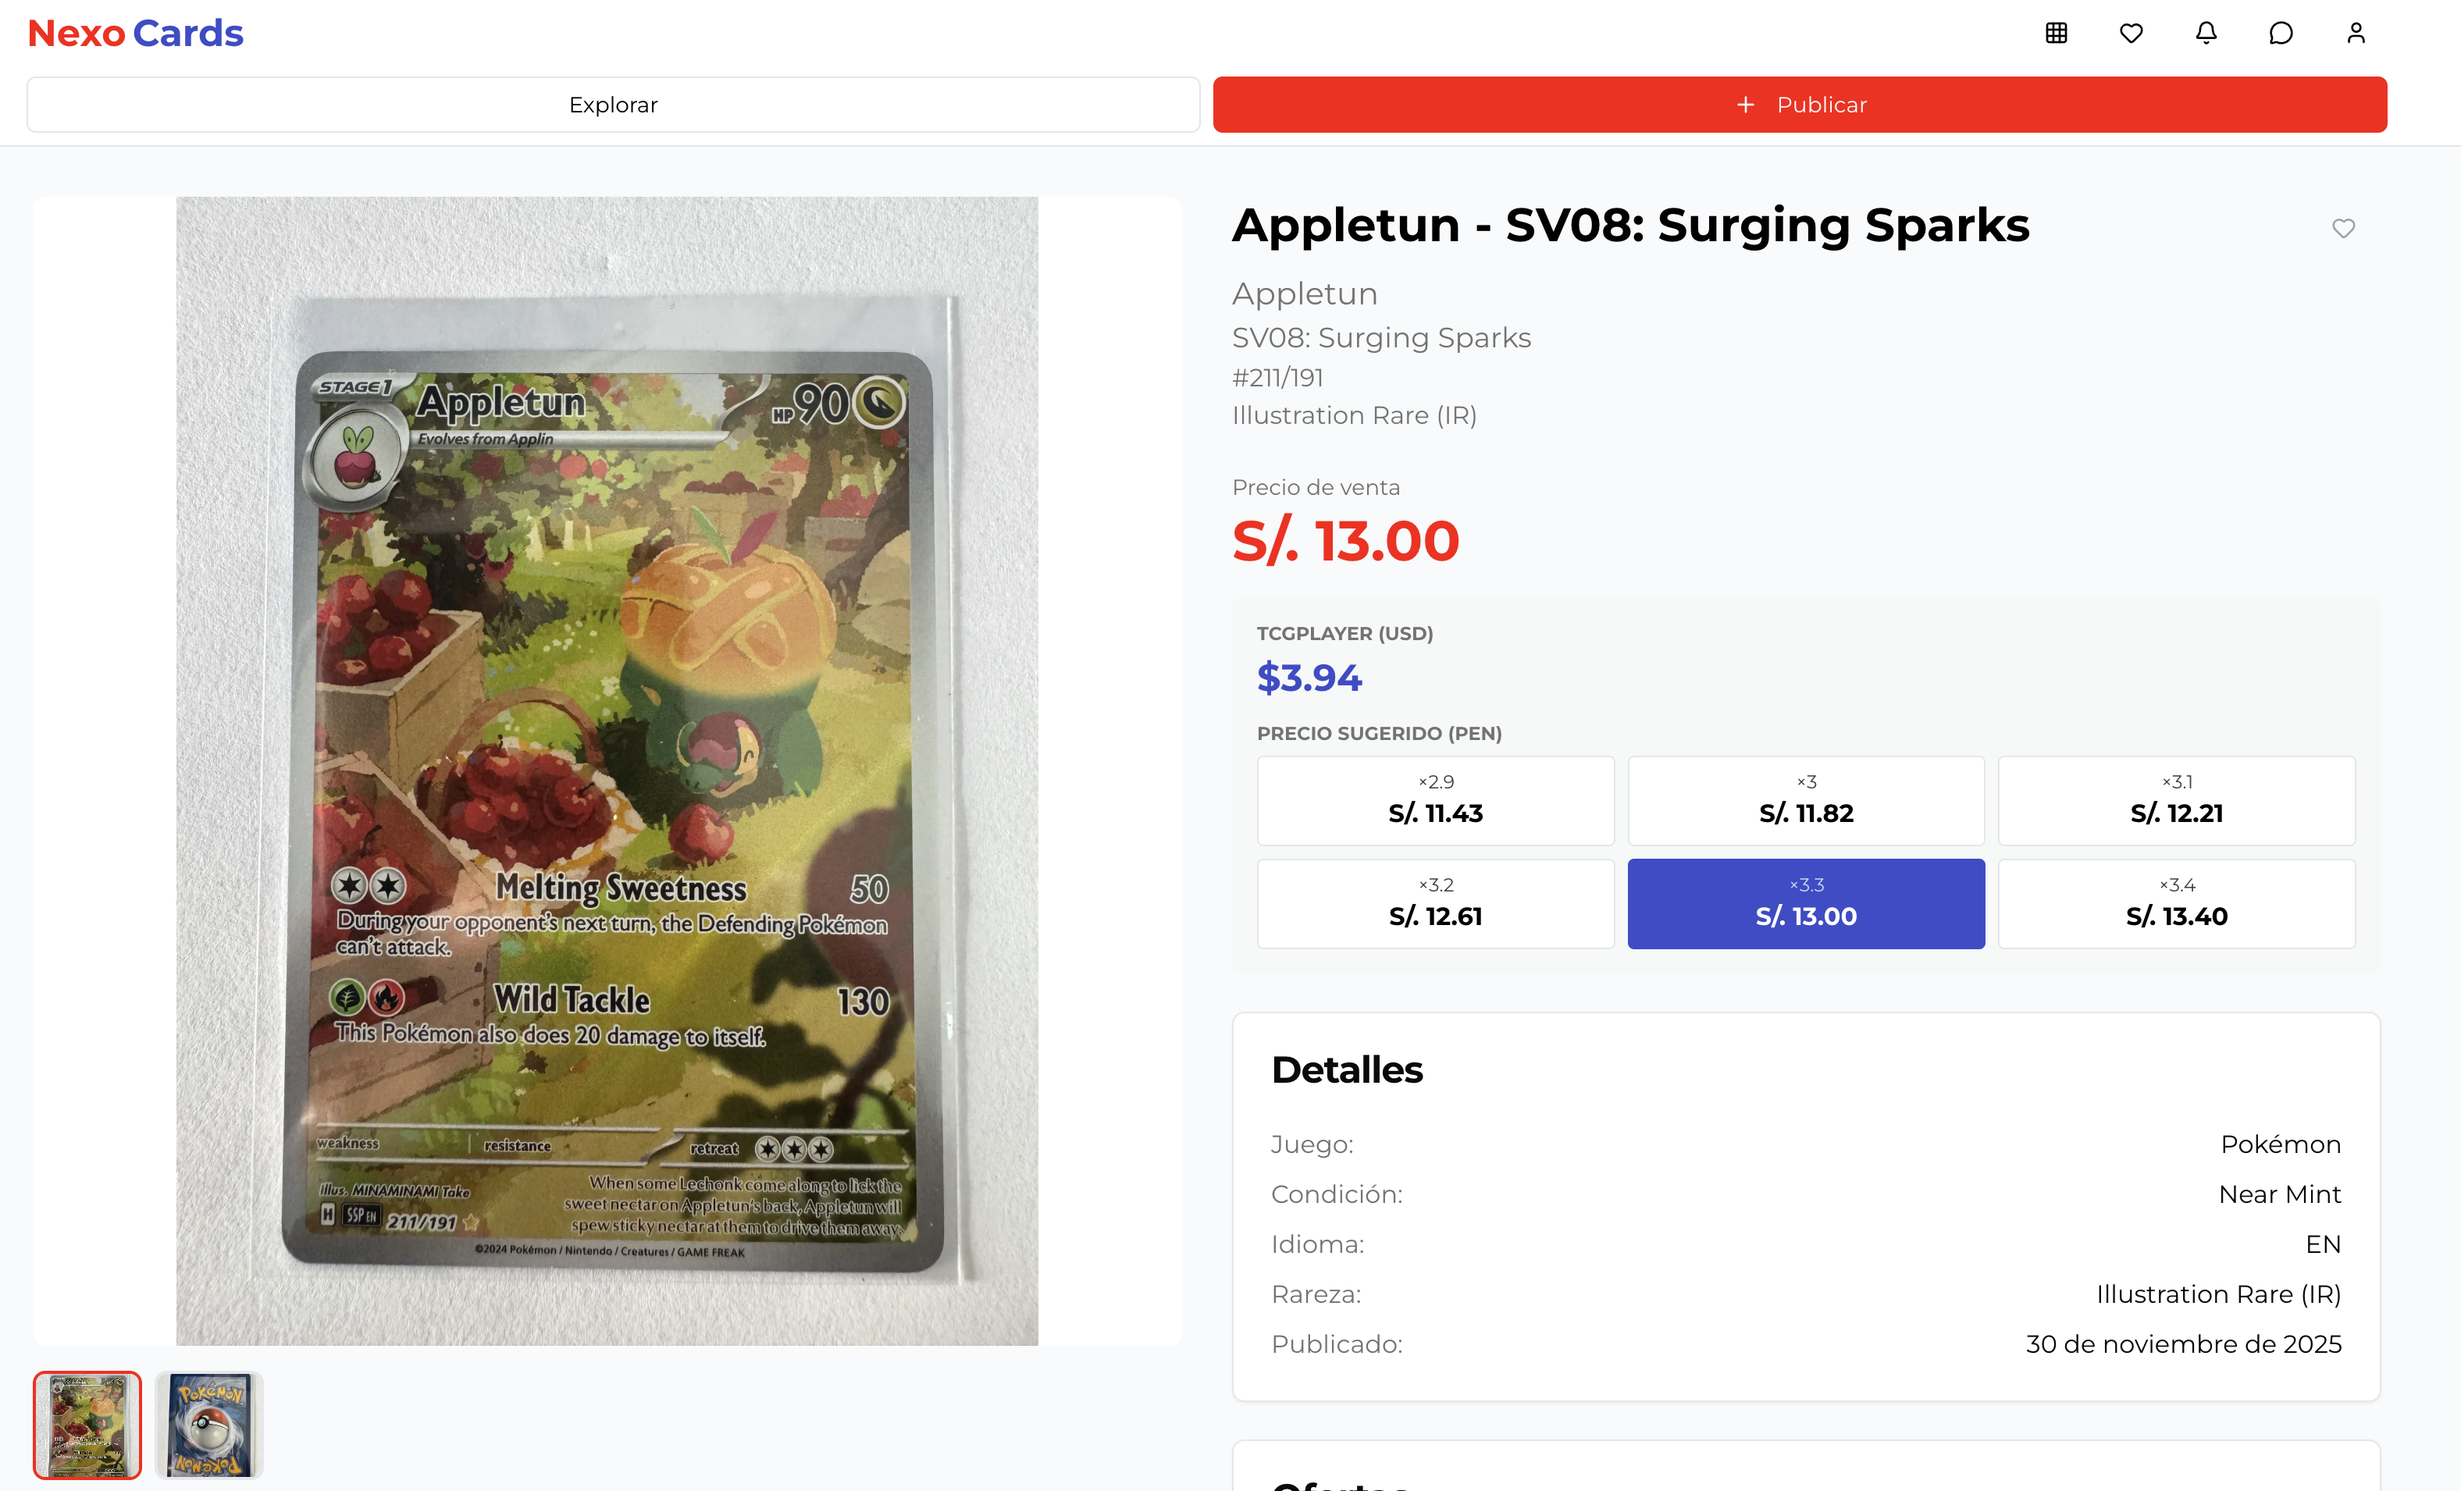
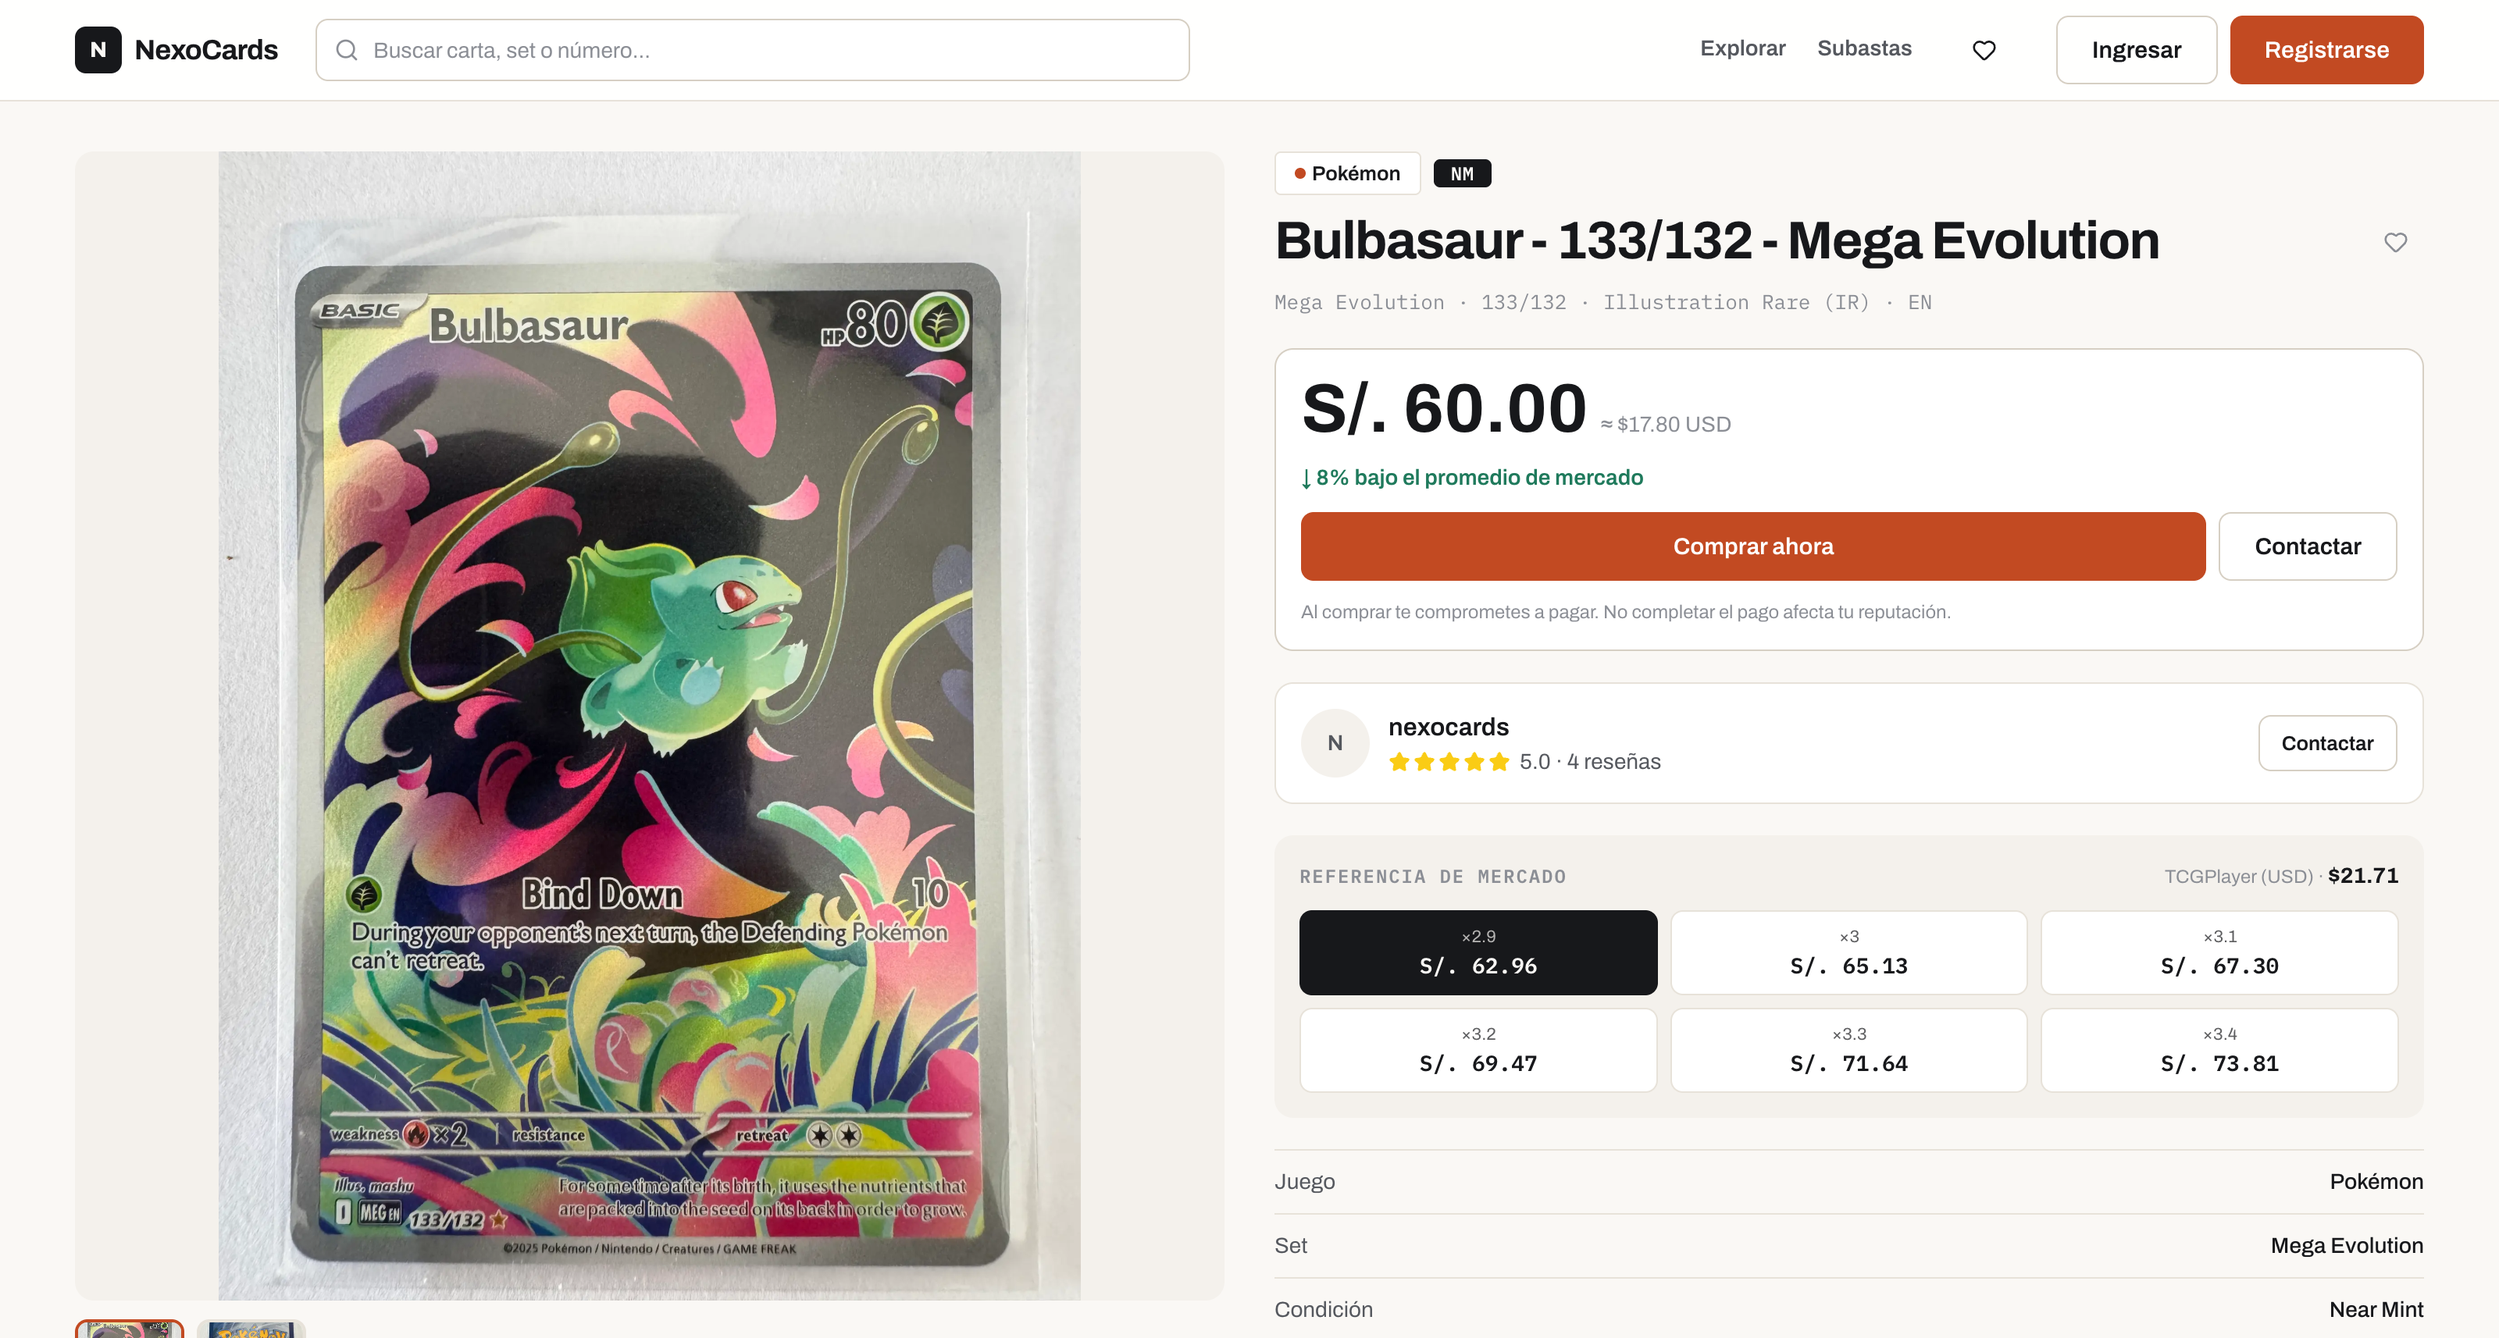
Update screenshots to reflect the visual redesign, fix stale stats
Screenshots now show the live "Arcilla y tinta" redesign (home is the
real marketplace, not the old waitlist landing) and the listing detail
page's live USD conversion.

Also corrected two stale claims: Next.js 15 -> 16, and "580,000+ cartas
de Pokémon indexadas" -> the real current count (24,500+ across all 4
games, verified against the live price CSVs).

diff --git a/README.md b/README.md
@@ -2,7 +2,7 @@
 
 **El marketplace líder de trading cards en Perú**
 
-![Next.js](https://img.shields.io/badge/Next.js-15-black) ![TypeScript](https://img.shields.io/badge/TypeScript-Type--Safe-3178C6) ![Supabase](https://img.shields.io/badge/Supabase-PostgreSQL-3ECF8E) ![Tailwind](https://img.shields.io/badge/Tailwind-CSS-38B2AC) ![Vercel](https://img.shields.io/badge/Vercel-Deployed-black)
+![Next.js](https://img.shields.io/badge/Next.js-16-black) ![TypeScript](https://img.shields.io/badge/TypeScript-Type--Safe-3178C6) ![Supabase](https://img.shields.io/badge/Supabase-PostgreSQL-3ECF8E) ![Tailwind](https://img.shields.io/badge/Tailwind-CSS-38B2AC) ![Vercel](https://img.shields.io/badge/Vercel-Deployed-black)
 
 **🌐 Producto en vivo:** [nexocards.pe](https://nexocards.pe/)
 
@@ -25,7 +25,7 @@ NexoCards es un marketplace completo que conecta a la comunidad de TCG en Perú,
 
 ## ✨ Funcionalidades destacadas
 
-- **Búsqueda inteligente**: autocompletado sobre una base de 580,000+ cartas de Pokémon indexadas, con precios de mercado en vivo.
+- **Búsqueda inteligente**: autocompletado sobre una base de 24,500+ cartas indexadas entre Pokémon, Magic, Yu-Gi-Oh! y One Piece, con precios de mercado en vivo.
 - **Conversión de moneda automática**: precio USD de TCGPlayer convertido a soles con multiplicadores configurables por el vendedor.
 - **Subastas y ofertas**: pujas con incrementos fijos, precio de reserva, protección anti-sniping, y ofertas en efectivo, cartas o mixtas con contraofertas.
 - **Mensajería en tiempo real**: chat directo entre compradores y vendedores con imágenes, reacciones y notificaciones.
@@ -34,7 +34,7 @@ NexoCards es un marketplace completo que conecta a la comunidad de TCG en Perú,
 
 ## 🛠 Stack técnico
 
-**Frontend:** Next.js 15 (App Router, Server Components), TypeScript, Tailwind CSS, shadcn/ui, Zustand
+**Frontend:** Next.js 16 (App Router, Server Components), TypeScript, Tailwind CSS, shadcn/ui, Zustand
 **Backend:** Next.js API Routes, Supabase (PostgreSQL, Auth, Storage) con Row Level Security
 **Integraciones:** eBay/TCGPlayer API para precios de mercado, Resend para notificaciones por correo, Google Analytics 4
 **Infraestructura:** Desplegado en Vercel con CI/CD automático, dominio propio (nexocards.pe)
@@ -44,13 +44,13 @@ NexoCards es un marketplace completo que conecta a la comunidad de TCG en Perú,
 - **Server Components + API Routes**: se usa el App Router de Next.js para renderizado eficiente en servidor, con rutas de API dedicadas para operaciones que requieren lógica de negocio (transacciones, ofertas, subastas).
 - **Row Level Security en Supabase**: en vez de validar permisos solo en la capa de aplicación, las reglas de acceso a datos viven también en la base de datos — así ningún endpoint puede accidentalmente exponer datos de otro usuario.
 - **Rate limiting por IP**: en endpoints sensibles (auth, mensajería, subastas) para mitigar abuso.
-- **Precios en tiempo real con fallback**: el sistema de pricing consulta la API externa pero mantiene un caché local de 580k+ cartas para no depender 100% de la disponibilidad de terceros.
+- **Precios en tiempo real con fallback**: un scraper propio actualiza diariamente un caché local de 24,500+ cartas desde TCGPlayer/eBay, para no depender 100% de la disponibilidad de terceros en cada consulta.
 
 ## 📊 Escala actual
 
 - Marketplace en producción con transacciones reales desde 2025.
 - Soporta 4 juegos de cartas coleccionables (Pokémon, Magic, Yu-Gi-Oh!, One Piece).
-- Base de datos de precios con 580,000+ cartas indexadas.
+- Base de datos de precios con 24,500+ cartas indexadas, actualizada diariamente.
 
 ## 🛣 Roadmap
 
